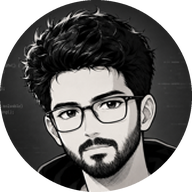
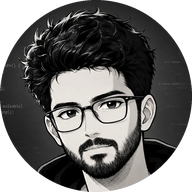
Build the portrait from the full-resolution photo
The site only had a 256px copy of the photo, so the portrait worked from a
blurry source. With the 1254px original, brightness alone could no longer
tell the figure from the backdrop (its vignette is as dark as the hair), so
the drawing leaked into the background.

- Add public/portrait.png: a head-and-shoulders cut-out of the original
  with a transparent background, made by segmenting the figure and removing
  the backdrop code art and edge fringes
- Draw only where the cut-out is opaque, with a smooth brightness ramp;
  drop the brightness bands, crop, circle and backdrop-art masks and the
  connected-shape filter that existed to guess at the backdrop
- Let the brightest skin use the densest characters and use slightly
  bolder strokes, so the face reads as lit
- Replace the 256px avatar with a 512px version (About page, social
  preview) and regenerate the favicon files from the original

diff --git a/components/home/AsciiPortrait.tsx b/components/home/AsciiPortrait.tsx
@@ -41,110 +41,34 @@ const RAMP: string[][] = [
 const clamp01 = (n: number) => Math.min(1, Math.max(0, n));
 
 /**
- * The photo is a head-and-shoulders shot with a lot of hoodie. Cropping in on the head gives the face
- * about 1.3× more character cells, which is what keeps it recognisable. Fractions of the image.
+ * How much ink a cell gets (0 = blank, 1 = densest) from its brightness. A smooth ramp: skin glows,
+ * mid-tones fall in between, and the near-black hair and hoodie recede to a faint texture, which is
+ * what makes the face read as a lit portrait.
  */
-const CROP = { x: 0.13, y: 0.04, size: 0.76 };
-
-// Brightness bands in the photo: black hair and hoodie < 0.085, the grey backdrop up to 0.24, skin above.
-const DARK_MAX = 0.085;
-const BRIGHT_MIN = 0.24;
-const DISC = 0.93;
+const density = (lum: number) => 0.2 + 0.78 * Math.pow(clamp01(lum / 0.68), 0.8);
 
 /**
- * The photo's backdrop holds a code snippet (left) and a </> icon (right), in fixed places. They would
- * read as stray noise next to the figure, so cells there are left blank. (u, w) run from -1 to 1.
+ * Samples the portrait into a grid of characters, then optionally scatters each one for the intro.
+ * The source image is a cut-out (transparent behind the figure), so only the figure gets characters.
  */
-const isBackdropArt = (u: number, w: number) => (u < -0.52 && w < 0.38) || (u > 0.5 && w < 0.12);
-
-/**
- * How much ink a cell gets (0 = blank, 1 = densest). The backdrop is always blank. Skin glows (dense)
- * and the dark hair and hoodie recede, which is what makes the face read as a lit portrait.
- */
-function density(lum: number) {
-  if (lum < DARK_MAX) return 0.44 - 0.14 * (lum / DARK_MAX);
-  if (lum < BRIGHT_MIN) return 0;
-  return 0.26 + 0.52 * clamp01((lum - BRIGHT_MIN) / 0.66);
-}
-
-/** Samples the photo into a grid of characters, then optionally scatters each one for the intro. */
 function buildParticles(img: HTMLImageElement, scatter: boolean): Particle[] {
   const sample = document.createElement("canvas");
   sample.width = COLS;
   sample.height = ROWS;
   const sx = sample.getContext("2d", { willReadFrequently: true })!;
   sx.imageSmoothingQuality = "high";
-  sx.drawImage(
-    img,
-    CROP.x * img.naturalWidth,
-    CROP.y * img.naturalHeight,
-    CROP.size * img.naturalWidth,
-    CROP.size * img.naturalHeight,
-    0,
-    0,
-    COLS,
-    ROWS,
-  );
+  sx.drawImage(img, 0, 0, COLS, ROWS);
   const px = sx.getImageData(0, 0, COLS, ROWS).data;
 
-  // Pass 1: ink amount per cell.
-  const ink = new Float32Array(COLS * ROWS);
-  for (let r = 0; r < ROWS; r++) {
-    for (let c = 0; c < COLS; c++) {
-      // Outside the photo's circular frame, and over the backdrop art, there is nothing to draw.
-      // (u, w) are positions in the whole photo, not the crop, so the masks above stay valid.
-      const u = (CROP.x + ((c + 0.5) / COLS) * CROP.size) * 2 - 1;
-      const w = (CROP.y + ((r + 0.5) / ROWS) * CROP.size) * 2 - 1;
-      if (u * u + w * w > DISC * DISC || isBackdropArt(u, w)) continue;
-      const i = (r * COLS + c) * 4;
-      ink[r * COLS + c] = density((0.2126 * px[i] + 0.7152 * px[i + 1] + 0.0722 * px[i + 2]) / 255);
-    }
-  }
-
-  // Pass 2: keep only the main figure. The photo's backdrop has a code snippet and a </> icon; as
-  // separate islands of ink they would read as noise, so drop everything but the biggest shape.
-  const label = new Int32Array(COLS * ROWS).fill(-1);
-  let best = -1;
-  let bestSize = 0;
-  let next = 0;
-  for (let start = 0; start < ink.length; start++) {
-    if (ink[start] <= 0 || label[start] >= 0) continue;
-    const stack = [start];
-    label[start] = next;
-    let size = 0;
-    while (stack.length) {
-      const k = stack.pop()!;
-      size++;
-      const kr = Math.floor(k / COLS);
-      const kc = k % COLS;
-      for (let dr = -1; dr <= 1; dr++) {
-        for (let dc = -1; dc <= 1; dc++) {
-          const nr = kr + dr;
-          const nc = kc + dc;
-          if (nr < 0 || nc < 0 || nr >= ROWS || nc >= COLS) continue;
-          const n = nr * COLS + nc;
-          if (ink[n] > 0 && label[n] < 0) {
-            label[n] = next;
-            stack.push(n);
-          }
-        }
-      }
-    }
-    if (size > bestSize) {
-      bestSize = size;
-      best = next;
-    }
-    next++;
-  }
-
-  // Pass 3: turn cells into particles.
   const out: Particle[] = [];
   const cx = W / 2;
   const cy = H / 2;
   for (let r = 0; r < ROWS; r++) {
     for (let c = 0; c < COLS; c++) {
-      const v = ink[r * COLS + c];
-      if (label[r * COLS + c] !== best) continue;
+      const i = (r * COLS + c) * 4;
+      if (px[i + 3] < 128) continue; // behind the figure
+      const lum = (0.2126 * px[i] + 0.7152 * px[i + 1] + 0.0722 * px[i + 2]) / 255;
+      const v = density(lum);
       // Level 0 is empty space; 1..8 index the ramp. A little noise dithers the edges.
       const level = Math.floor(v * (RAMP.length + 1) + (Math.random() - 0.5) * 0.4);
       if (level < 1) continue;
@@ -233,7 +157,7 @@ export function AsciiPortrait({ src, alt }: { src: string; alt: string }) {
       ctx.setTransform(1, 0, 0, 1, 0, 0);
       ctx.clearRect(0, 0, canvas.width, canvas.height);
       ctx.setTransform(scale, 0, 0, scale, 0, 0);
-      ctx.font = `500 ${FONT_PX}px ${font}`;
+      ctx.font = `600 ${FONT_PX}px ${font}`;
       ctx.textBaseline = "alphabetic";
       const tones = [colors.ink, colors.muted, colors.faint];
       let current = "";

diff --git a/components/home/Hero.tsx b/components/home/Hero.tsx
@@ -121,7 +121,7 @@ export function Hero() {
         </div>
 
         <figure className={`${styles.portrait} ${styles.anim}`} style={{ "--d": "260ms" } as React.CSSProperties}>
-          <AsciiPortrait src="/avatar.png" alt={`Portrait of ${profile.name}, drawn in text characters`} />
+          <AsciiPortrait src="/portrait.png" alt={`Portrait of ${profile.name}, drawn in text characters`} />
           <figcaption>
             <span>
               <span className="status-dot" /> {profile.availability}

diff --git a/README.md b/README.md
@@ -60,8 +60,12 @@ publishes `./out`. Set **Settings → Pages → Source** to **GitHub Actions** o
 
 ## Home portrait
 
-The hero portrait (`components/home/AsciiPortrait.tsx`) is generated in the browser from `public/avatar.png`:
-the head and shoulders are sampled into ~3,000 text characters that spiral in when the page opens and swirl
-away from the cursor. The characters glow, so they are always drawn on a dark ground: the page itself in dark
-themes, a dark panel in light themes. Colours come from the `--portrait-*` variables in `app/globals.css`, one
-set per palette. The animation loop sleeps when nothing is moving and is skipped under `prefers-reduced-motion`.
+The hero portrait (`components/home/AsciiPortrait.tsx`) is drawn in the browser from `public/portrait.png`, a
+head-and-shoulders cut-out of the avatar with a transparent background. It is sampled into ~3,500 text
+characters that spiral in when the page opens and swirl away from the cursor. The characters glow, so they are
+always drawn on a dark ground: the page itself in dark themes, a dark panel in light themes. Colours come from
+the `--portrait-*` variables in `app/globals.css`, one set per palette. The animation loop sleeps when nothing is
+moving and is skipped under `prefers-reduced-motion`.
+
+`public/avatar.png` (512px) is the photo used on the About page and as the social preview image; the favicon files
+in `app/` are cropped from the same photo.
